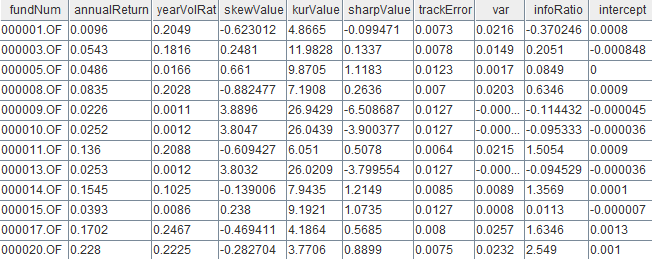
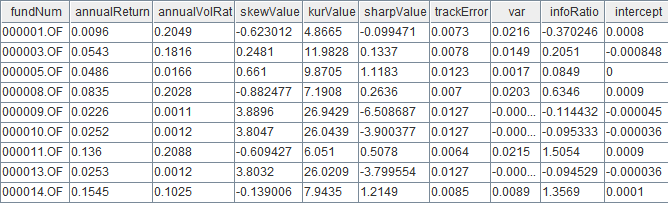
update fund_factor_constrasted_by_py.md

diff --git a/script/fund_factor_contrasted_by_py/fund_factor.py b/script/fund_factor_contrasted_by_py/fund_factor.py
@@ -9,7 +9,7 @@ from joblib import Parallel, delayed
 
 s = ddb.session()
 s.connect("127.0.0.1", 8848, "admin", "123456")
-def getYearReturn(value):
+def getAnnualReturn(value):
     return pow(1 + ((value[-1] - value[0])/value[0]), 252/730)-1
 
 def getAnnualVolatility(value):
@@ -31,7 +31,7 @@ def getAnnualKur(value):
     return st.kurtosis(np.true_divide(diff_value, rolling_value), fisher=False)
 
 def getSharp(value):
-    return (getYearReturn(value) - 0.03)/getAnnualVolatility(value) if getAnnualVolatility(value) != 0 else 0
+    return (getAnnualReturn(value) - 0.03)/getAnnualVolatility(value) if getAnnualVolatility(value) != 0 else 0
 
 def getTrackError(value, price):
     diff_price = np.diff(price)
@@ -124,7 +124,7 @@ def main(li):
     value = np.array(li["value"])
     price = np.array(li["price"])
     log = np.array(li["log"])
-    getYearReturn(value)
+    getAnnualReturn(value)
     getAnnualVolatility(value)
     getAnnualSkew(value)
     getAnnualKur(value)

diff --git a/fund_factor_contrasted_by_py.md b/fund_factor_contrasted_by_py.md
@@ -52,14 +52,14 @@
 
   - 公式：
 
-    <img src="https://latex.codecogs.com/svg.image?yearReturn_{i}=(1&plus;\frac{EndingValue-BeginningValue}{BeginningValue})**(\frac{252}{730})-1"/>
+    <img src="https://latex.codecogs.com/svg.image?annualReturn_{i}=(1&plus;\frac{EndingValue-BeginningValue}{BeginningValue})**(\frac{252}{730})-1"/>
     
   - 代码实现：
 
     - DolphinDB：
 
       ```sql
-      defg getYearReturn(value){
+      defg getAnnualReturn(value){
             return pow(1 + ((last(value) - first(value))\first(value)), 252\730) - 1
       }
       ```
@@ -67,13 +67,13 @@
     - Python：
 
       ```python
-      def getYearReturn(value):
+      def getAnnualReturn(value):
           return pow(1 + ((value[-1] - value[0])/value[0]), 252/730)-1
       ```
 
 - **年化波动率**
   
-  - 因子含义：衡量投资标的波动风险
+  - 因子含义：衡量基金的波动风险
   
   - 公式：
   
@@ -161,7 +161,7 @@
   
   - 公式：
   
-    <img src="https://latex.codecogs.com/svg.image?sharpValue=(yearReturn_{value}-0.03)/annualVolat"/>
+    <img src="https://latex.codecogs.com/svg.image?sharpValue=(annualReturn_{value}-0.03)/annualVolat"/>
     
   - 代码实现：
   
@@ -169,7 +169,7 @@
   
       ```sql
       defg getSharp(value){
-      	return (getYearReturn(value) - 0.03)\getAnnualVolatility(value) as sharpeRat
+      	return (getAnnualReturn(value) - 0.03)\getAnnualVolatility(value) as sharpeRat
       }
       ```
   
@@ -177,7 +177,7 @@
   
       ```python
       def getSharp(value):
-          return (getYearReturn(value) - 0.03)/getAnnualVolatility(value) if getAnnualVolatility(value) != 0 else 0
+          return (getAnnualReturn(value) - 0.03)/getAnnualVolatility(value) if getAnnualVolatility(value) != 0 else 0
       ```
   
 - **跟踪误差**
@@ -215,7 +215,7 @@
   
   - 公式：
   
-    <img src="https://latex.codecogs.com/svg.image?infoRatio=(yearReturn_{value}-yearReturn_{price})/annualVolat"/>
+    <img src="https://latex.codecogs.com/svg.image?infoRatio=(annualReturn_{value}-annualReturn_{price})/annualVolat"/>
     
   - 代码实现：
   
@@ -549,7 +549,7 @@ mlog =  m_log[1:,]
   ```
   def getFactor(result2, symList){
   	Return = select fundNum, 
-  	            getYearReturn(value) as annualReturn,
+  	            getAnnualReturn(value) as annualReturn,
   	            getAnnualVolatility(value) as annualVolat,
   	            getAnnualSkew(value) as skewValue,
   	            getAnnualKur(value) as kurValue,
@@ -573,7 +573,7 @@ mlog =  m_log[1:,]
   		  result2 = select Tradedate, fundNum, iif(isNull(value), ffill!(value), value) as value,price from ajResult where Tradedate == hsTradedate
   		  symList = exec distinct(fundNum) as fundNum from result2 order by fundNum
   		  symList2 = symList.cut(250)//此处，将任务切分，按每次250个不同基金数据进行计算
-  	ploop(getFactor{result2}, symList2)}
+  	      ploop(getFactor{result2}, symList2)}
   }//定义获取9个因子计算和数据操作的时间的函数
   /**
    * 提交1个 job（单用户）
@@ -599,13 +599,13 @@ mlog =  m_log[1:,]
 
 - 计算10个因子的响应时间:
 
-  首先，定义计算10个因子的函数：
+  首先，定义计算9个因子的函数：
 
   ```
   def getFactor(result2, symList){
   	Return = select fundNum, 
-  	            getYearReturn(value) as annualReturn,
-  	            getAnnualVolatility(value) as yearVolRat,
+  	            getAnnualReturn(value) as annualReturn,
+  	            getAnnualVolatility(value) as annualVolRat,
   	            getAnnualSkew(value) as skewValue,
   	            getAnnualKur(value) as kurValue,
   	            getSharp(value) as sharpValue,
@@ -627,15 +627,15 @@ mlog =  m_log[1:,]
     		  ajResult = select Tradedate, fundNum, value, fund_hs_OLAP.Tradedate as hsTradedate, fund_hs_OLAP.value as price from aj(fund_OLAP, fund_hs_OLAP, `Tradedate)
     		  result2 = select Tradedate, fundNum, iif(isNull(value), ffill!(value), value) as value,price from ajResult where Tradedate == hsTradedate
     		  symList = exec distinct(fundNum) as fundNum from result2 order by fundNum
-                              symList2 = symList.cut(250)
+            symList2 = symList.cut(250)
     		  portfolio = select fundNum as fundNum, (deltas(value)\prev(value)) as log, TradeDate as TradeDate from result2 where TradeDate in 2019.05.24..2022.05.27 and fundNum in symList
-              m_log = exec log from portfolio pivot by TradeDate, fundNum
-              mlog =  m_log[1:,]
-              knum = 2..365
+            m_log = exec log from portfolio pivot by TradeDate, fundNum
+            mlog =  m_log[1:,]
+            knum = 2..365
               }//此处，将任务切分，按每次250个不同基金数据进行计算
-              timer{ploop(getFactor{result2}, symList2)
-              a = ploop(calAllRs2{mlog,symList}, knum).unionAll(false)
-              res2 = select fundNum, ols(factor1, kNum)[0] as hist, ols(factor1, kNum)[1] as hist2, ols(factor1, kNum)[2] as hist3 from a group by fundNum}
+      timer{ploop(getFactor{result2}, symList2)
+            a = ploop(calAllRs2{mlog,symList}, knum).unionAll(false)
+            res2 = select fundNum, ols(factor1, kNum)[0] as hist, ols(factor1, kNum)[1] as hist2, ols(factor1, kNum)[2] as hist3 from a group by fundNum}
     }//定义获取10个因子计算和数据操作的时间的函数
     /**
      * 提交1个 job（单用户）
@@ -665,25 +665,25 @@ mlog =  m_log[1:,]
 
 ### 3.4 结果展示
 
-- 单用户
+- 单用户计算时间
 
-  | CPU数 | 9个因子 | 10个因子（包含赫斯特指数） |
+  | CPU数 | 9个因子（单位：毫秒） | 10个因子（包含赫斯特指数）（单位：毫秒） |
   | ----- | ------ | ------------------------ |
-  | 4     | 753ms  | 7,835ms                  |
-  | 6     | 535ms  | 5,378ms                  |
-  | 8     | 424ms  | 4,537ms                  |
-  | 10    | 507ms  | 3,643ms                  |
-  | 12    | 465ms  | 3,087ms                  |
+  | 4     | 753    | 7,835                    |
+  | 6     | 535    | 5,378                    |
+  | 8     | 424    | 4,537                    |
+  | 10    | 507    | 3,643                    |
+  | 12    | 465    | 3,087                    |
 
-- 多用户（此处为5用户）
+- 多用户（此处为5用户）计算时间
 
-  | CPU数 | 9个因子  | 10个因子（包含赫斯特指数） |
+  | CPU数 | 9个因子（单位：毫秒）  | 10个因子（包含赫斯特指数）（单位：毫秒） |
   | ----- | ------- | ------------------------ |
-  | 4     | 1,980ms | 30,769ms                 |
-  | 6     | 1,480ms | 24,675ms                 |
-  | 8     | 1,215ms | 20,114ms                 |
-  | 10    | 988ms   | 15,843ms                 |
-  | 12    | 836ms   | 13,433ms                 |
+  | 4     | 1,980   | 30,769                   |
+  | 6     | 1,480   | 24,675                   |
+  | 8     | 1,215   | 20,114                   |
+  | 10    | 988     | 15,843                   |
+  | 12    | 836     | 13,433                   |
 
 
 > 注：由于赫斯特指数需要按照2+3+4+...+365种不同的粒度方式切分成不同种类的序列划分，同时分别对不同粒度的每一段序列分别计算均值、离差和标准差等，并最终求平均的 R/S 值，计算的子指标过大，时间复杂度较高，因此耗时相较于其它因子更长。
@@ -711,7 +711,7 @@ def main(li):
     value = np.array(li["value"])
     price = np.array(li["price"])
     log = np.array(li["log"])
-    getYearReturn(value)
+    getAnnualReturn(value)
     getAnnualVolatility(value)
     getAnnualSkew(value)
     getAnnualKur(value)
@@ -750,23 +750,23 @@ print(end-start)
 
 - 单用户
 
-  | CPU数 | 响应时间（DolphinDB） | 响应时间（Python） | 性能对比（Python/DolphinDB) |
+  | CPU数 | DolphinDB 响应时间（单位：秒） | Python 响应时间（单位：毫秒） | 性能对比（Python/DolphinDB) |
   | ----- | --------------------- | ------------------ | --------------------------- |
-  | 4     | 7.83s                 | 35.56s             | 4.54                        |
-  | 6     | 5.37s                 | 26.56s             | 4.94                        |
-  | 8     | 4.53s                 | 21.63s             | 4.77                        |
-  | 10    | 3.64s                 | 19.4s              | 5.33                        |
-  | 12    | 3.08s                 | 18.2s              | 5.9                         |
+  | 4     | 7.83                  | 35.56              | 4.54                        |
+  | 6     | 5.37                  | 26.56              | 4.94                        |
+  | 8     | 4.53                  | 21.63              | 4.77                        |
+  | 10    | 3.64                  | 19.4               | 5.33                        |
+  | 12    | 3.08                  | 18.2               | 5.9                         |
   
 - 多用户（此处为5用户）
 
-  | CPU数 | 响应时间（DolphinDB） | 响应时间（Python） | 性能对比（Python/DolphinDB) |
+  | CPU数 | DolphinDB 响应时间（单位：秒） | Python 响应时间（单位：秒） | 性能对比（Python/DolphinDB) |
   | ----- | --------------------- | ------------------ | --------------------------- |
-  | 4     | 30.76s                | 193.42s            | 6.28                        |
-  | 6     | 24.67s                | 155.29s            | 6.29                        |
-  | 8     | 20.11s                | 159.43s            | 7.93                        |
-  | 10    | 15.84s                | 160.79s            | 10.15                       |
-  | 12    | 13.43s                | 170.51s            | 12.69                       |
+  | 4     | 30.76                 | 193.42             | 6.28                        |
+  | 6     | 24.67                 | 155.29             | 6.29                        |
+  | 8     | 20.11                 | 159.43             | 7.93                        |
+  | 10    | 15.84                 | 160.79             | 10.15                       |
+  | 12    | 13.43                 | 170.51             | 12.69                       |
 
 > 注：在 CPU 单核和单用户的条件下，DolphinDB 和 Python 的响应时间分别为 27.06s 和 631.80s，性能对比达到了23倍。
 
